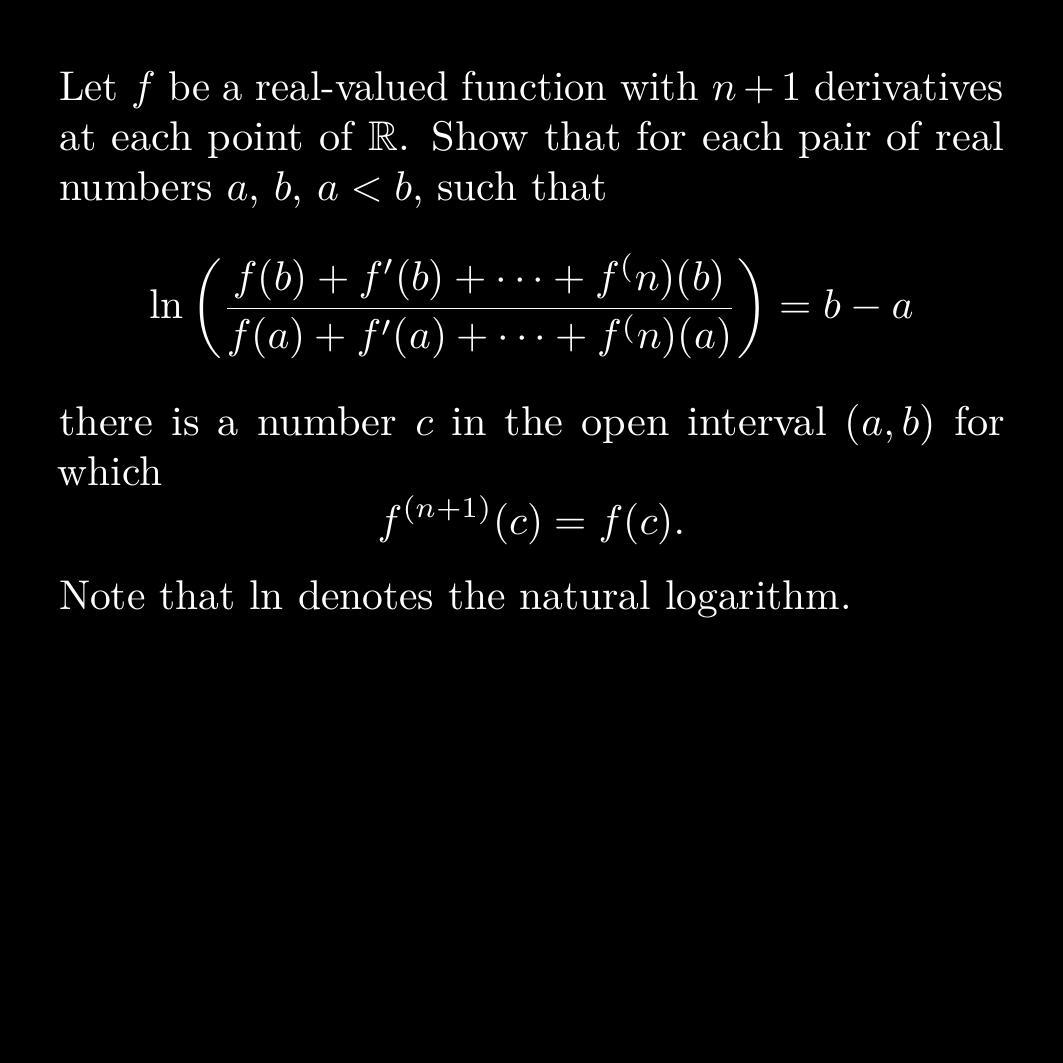
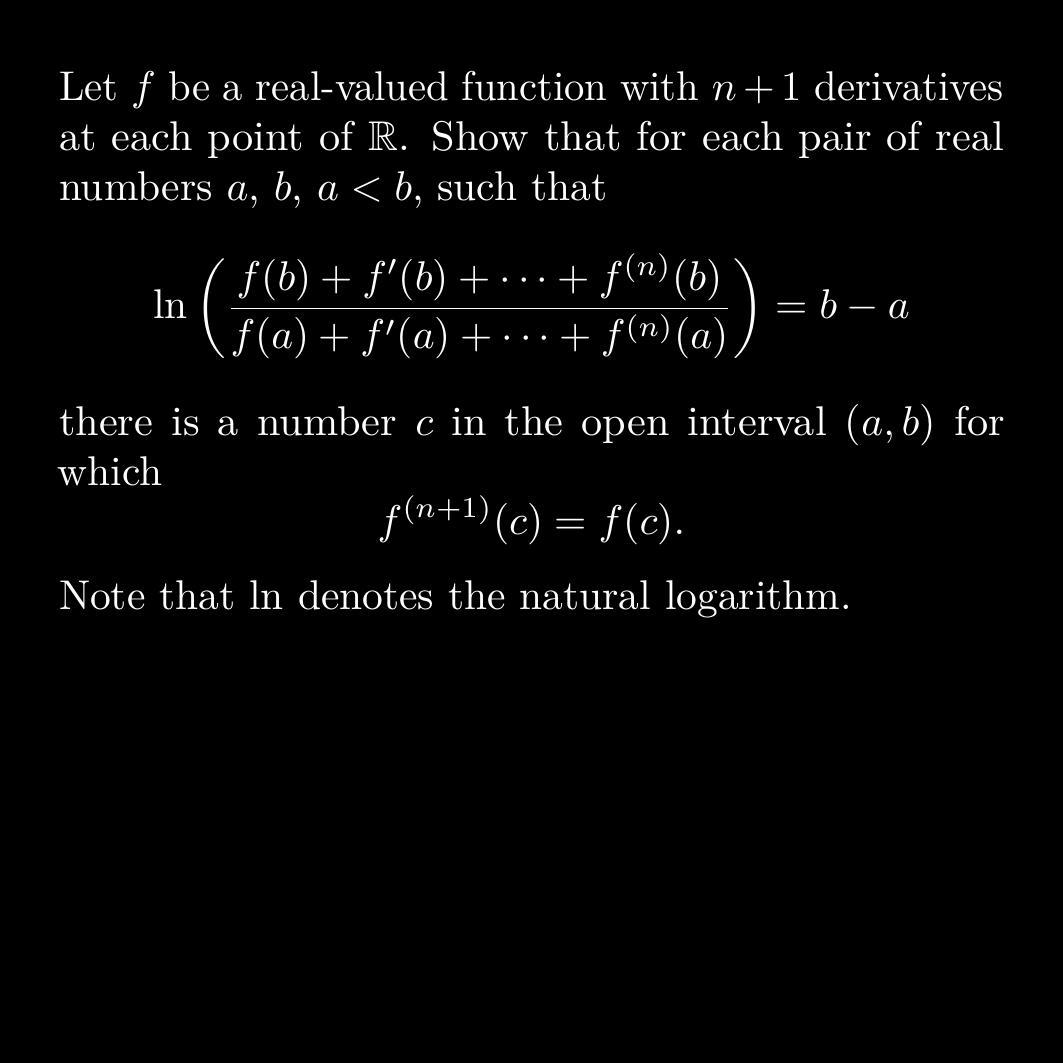
Fehler in 1994/2/3 behoben und schwedische Übersetzung aktualisiert

diff --git a/LaTeX/1994/2/3.tex b/LaTeX/1994/2/3.tex
@@ -20,7 +20,7 @@
 \begin{document}
 	\setlength{\parindent}{0pt}
 	Let $f$ be a real-valued function with $n + 1$ derivatives at each point of	$\mathbb{R}$. Show that for each pair of real numbers $a$, $b$, $a < b$, such that
-	$$\ln\left(\frac{f(b) + f'(b) + \dots + f^(n)(b)}{f(a) + f'(a) +\dots + f^(n)(a)}\right)=b - a$$
+	$$\ln\left(\frac{f(b) + f'(b) + \dots + f^{(n)}(b)}{f(a) + f'(a) +\dots + f^{(n)}(a)}\right)=b - a$$
 	there is a number $c$ in the open interval $(a, b)$ for which	$$f^{(n+1)}(c) = f(c).$$
 	Note that $\ln$ denotes the natural logarithm.
 \end{document}
